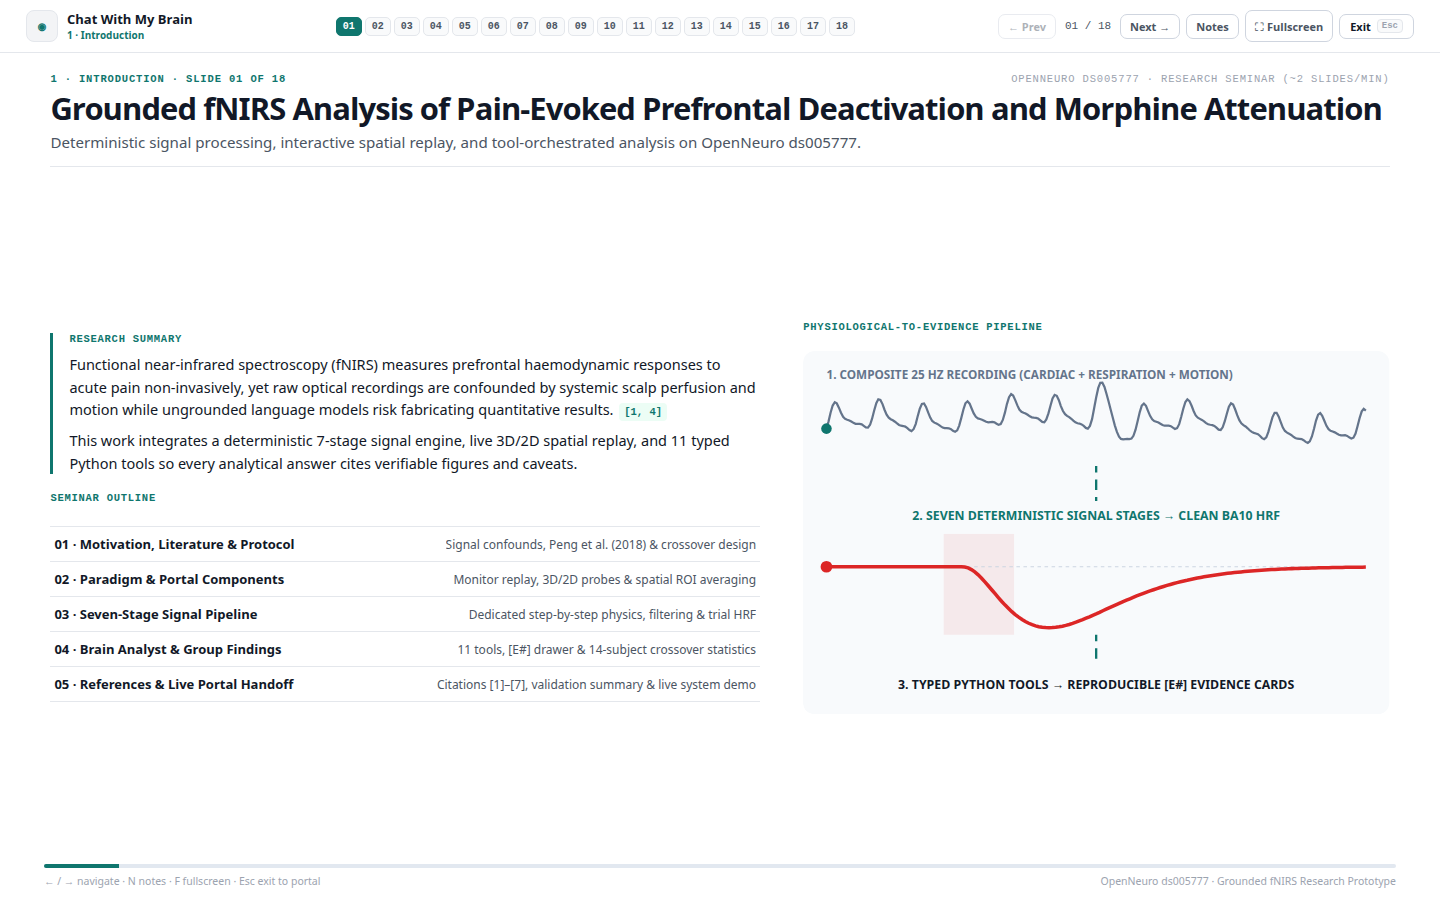
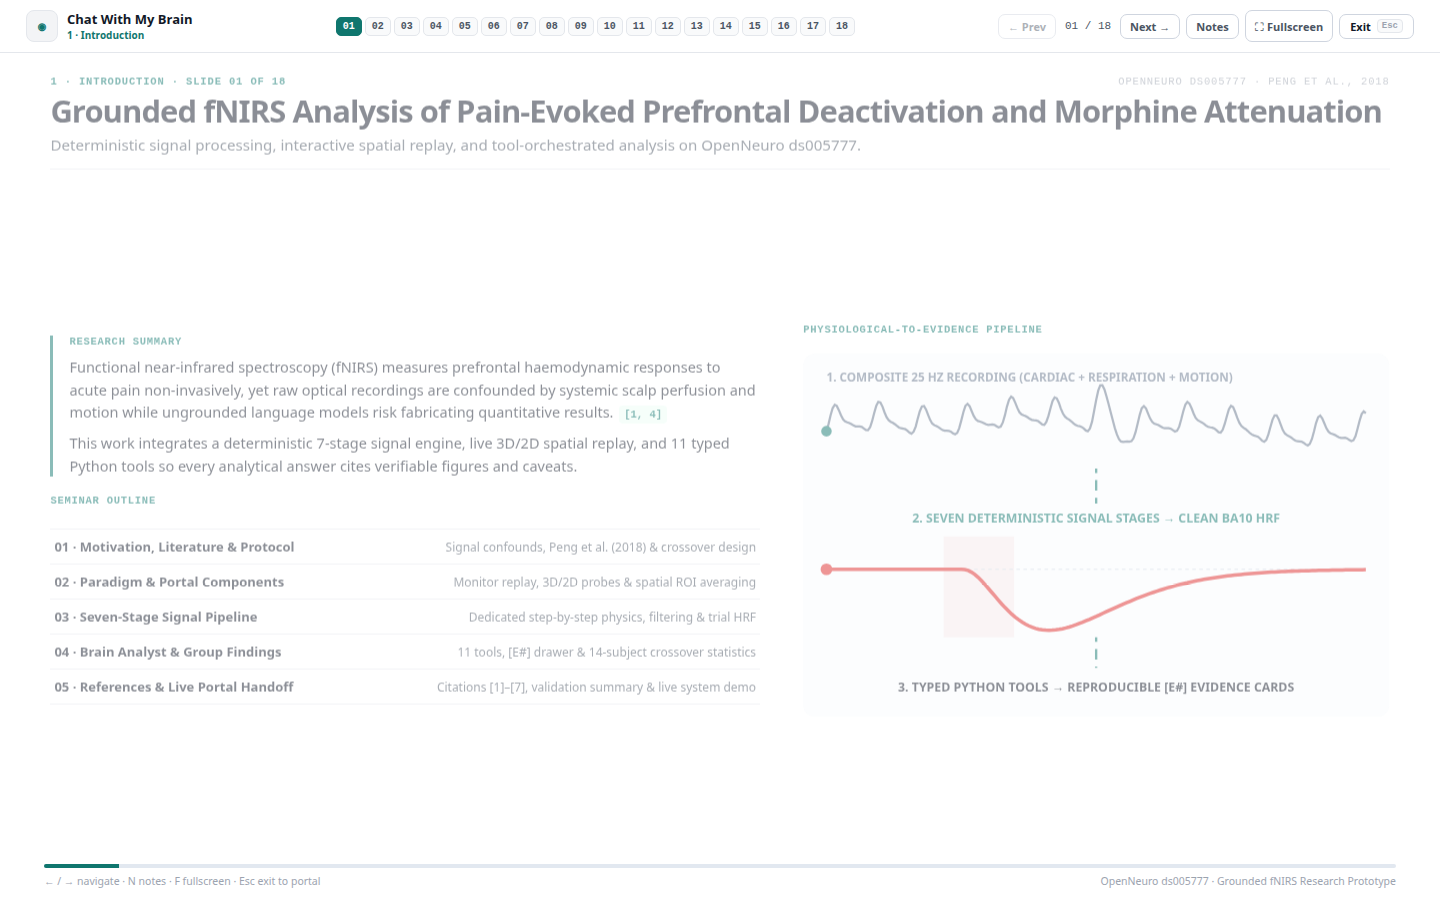
Clean presentation header label and refresh screenshot

diff --git a/frontend/src/components/PresentationView.tsx b/frontend/src/components/PresentationView.tsx
@@ -500,7 +500,7 @@ export default function PresentationView({ run, group, onExit, onJump }: Props) 
           <header className="deck-head">
             <div className="deck-eyebrow">
               <span>{slide.section} · Slide {slide.num} of {SLIDES.length}</span>
-              <span>OpenNeuro ds005777 · Research Seminar (~2 slides/min)</span>
+              <span>OpenNeuro ds005777 · Peng et al., 2018</span>
             </div>
             <h1>{slide.title}</h1>
             <p className="deck-lead">{slide.subtitle}</p>
